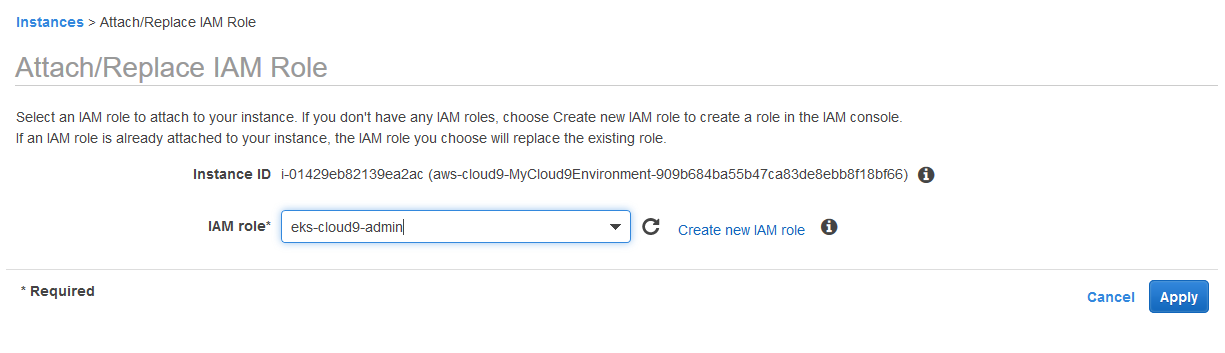
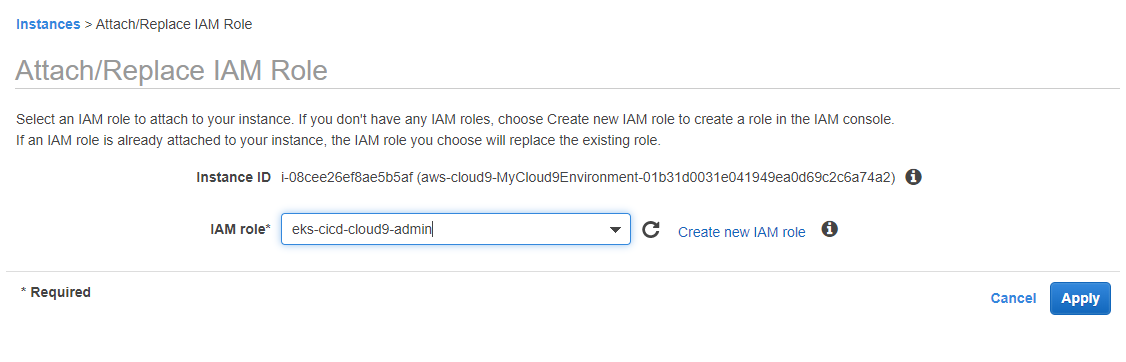
WIP: Instructions and app patches.

diff --git a/cicd-eks-fargate/README.md b/cicd-eks-fargate/README.md
@@ -4,37 +4,37 @@
 Click on the Services menu at the top left corner of the screen, and enter **Cloud9** into the search bar, then click on the *Cloud9* menu item.
 
 <p align="center">
-    <img alt="cloud9_1" src="https://github.com/aws-samples/virtual-immersion-week-labs/raw/master/cicd-eks-fargate/img/cloud9_1.png" width="25%">
+    <img alt="cloud9_1" src="https://github.com/aws-samples/virtual-immersion-week-labs/raw/feature/cicd-eks-fargate-lab/cicd-eks-fargate/img/cloud9_1.png" width="25%">
 </p>
 
 Click on the *Create environment* button to start creating a new environment.
 
 <p align="center">
-    <img alt="cloud9_2" src="https://github.com/aws-samples/virtual-immersion-week-labs/raw/master/cicd-eks-fargate/img/cloud9_2.png" width="55%">
+    <img alt="cloud9_2" src="https://github.com/aws-samples/virtual-immersion-week-labs/raw/masfeature/cicd-eks-fargate-labter/cicd-eks-fargate/img/cloud9_2.png" width="55%">
 </p>
 
 Enter **MyCloud9Environment** in the *Name* field, and click on the *Next step* button to continue.
 
 <p align="center">
-    <img alt="cloud9_3" src="https://github.com/aws-samples/virtual-immersion-week-labs/raw/master/cicd-eks-fargate/img/cloud9_3.png" width="85%">
+    <img alt="cloud9_3" src="https://github.com/aws-samples/virtual-immersion-week-labs/raw/feature/cicd-eks-fargate-lab/cicd-eks-fargate/img/cloud9_3.png" width="85%">
 </p>
 
 Leave the rest as it is, and click on the *Next step* button to continue.
 
 <p align="center">
-    <img alt="cloud9_4" src="https://github.com/aws-samples/virtual-immersion-week-labs/raw/master/cicd-eks-fargate/img/cloud9_4.png" width="85%">
+    <img alt="cloud9_4" src="https://github.com/aws-samples/virtual-immersion-week-labs/raw/feature/cicd-eks-fargate-lab/cicd-eks-fargate/img/cloud9_4.png" width="85%">
 </p>
 
 Review the parameters and click on the *Create environment* button.
 
 <p align="center">
-    <img alt="cloud9_5" src="https://github.com/aws-samples/virtual-immersion-week-labs/raw/master/cicd-eks-fargate/img/cloud9_5.png" width="85%">
+    <img alt="cloud9_5" src="https://github.com/aws-samples/virtual-immersion-week-labs/raw/feature/cicd-eks-fargate-lab/cicd-eks-fargate/img/cloud9_5.png" width="85%">
 </p>
 
 After a brief setup process, you will be taken to your newly created AWS Cloud9 environment. 
 
 <p align="center">
-    <img alt="cloud9_6" src="https://github.com/aws-samples/virtual-immersion-week-labs/raw/master/cicd-eks-fargate/img/cloud9_6.png" width="85%">
+    <img alt="cloud9_6" src="https://github.com/aws-samples/virtual-immersion-week-labs/raw/feature/cicd-eks-fargate-lab/cicd-eks-fargate/img/cloud9_6.png" width="85%">
 </p>
 
 ### Download and install dependencies
@@ -108,23 +108,25 @@ Click on the following [deep link](https://console.aws.amazon.com/iam/home#/role
 Make sure that the *AWS service* and *EC2* options are selected, then click *Next* to view permissions.
 
 <p align="center">
-    <img alt="iam_1" src="https://github.com/aws-samples/virtual-immersion-week-labs/raw/master/cicd-eks-fargate/img/iam_1.png" width="85%">
+    <img alt="iam_1" src="https://github.com/aws-samples/virtual-immersion-week-labs/raw/feature/cicd-eks-fargate-lab/cicd-eks-fargate/img/iam_1.png" width="85%">
 </p>
 
 Make sure that **AdministratorAccess** is checked, then click *Next* to review.
 
 <p align="center">
-    <img alt="iam_2" src="https://github.com/aws-samples/virtual-immersion-week-labs/raw/master/cicd-eks-fargate/img/iam_2.png" width="85%">
+    <img alt="iam_2" src="https://github.com/aws-samples/virtual-immersion-week-labs/raw/feature/cicd-eks-fargate-lab/cicd-eks-fargate/img/iam_2.png" width="85%">
 </p>
 
-Enter *eks-cloud9-admin* as the role name, and click *Create role*.
+Skip the tags by clicking on the *Next: Review* button.
 
 <p align="center">
-    <img alt="iam_3" src="https://github.com/aws-samples/virtual-immersion-week-labs/raw/master/cicd-eks-fargate/img/iam_3.png" width="85%">
+    <img alt="iam_3" src="https://github.com/aws-samples/virtual-immersion-week-labs/raw/feature/cicd-eks-fargate-lab/cicd-eks-fargate/img/iam_3.png" width="85%">
 </p>
 
+Enter *eks-cicd-cloud9-admin* as the role name, and click *Create role*.
+
 <p align="center">
-    <img alt="iam_4" src="https://github.com/aws-samples/virtual-immersion-week-labs/raw/master/cicd-eks-fargate/img/iam_4.png" width="85%">
+    <img alt="iam_4" src="https://github.com/aws-samples/virtual-immersion-week-labs/raw/feature/cicd-eks-fargate-lab/cicd-eks-fargate/img/iam_4.png" width="85%">
 </p>
 
 #### Assign the newly created IAM role to your Cloud9 instance.
@@ -133,11 +135,23 @@ Click on the following [deep link](https://console.aws.amazon.com/ec2/v2/home?#I
 
 Click on *Actions*, select *Instance Settings*, and click *Attach/Replace IAM Role*.
 
-From the *IAM role* dropdown, select the **eks-cloud9-admin** role, and click on *Apply*.
+<p align="center">
+    <img alt="ec2_role_1" src="https://github.com/aws-samples/virtual-immersion-week-labs/raw/feature/cicd-eks-fargate-lab/cicd-eks-fargate/img/ec2_role_1.png" width="85%">
+</p>
+
+From the *IAM role* dropdown, select the **eks-cicd-cloud9-admin** role, and click on *Apply*.
+
+<p align="center">
+    <img alt="ec2_role_2" src="https://github.com/aws-samples/virtual-immersion-week-labs/raw/feature/cicd-eks-fargate-lab/cicd-eks-fargate/img/ec2_role_2.png" width="85%">
+</p>
 
 #### Configure Cloud9 to use the newly assigned role.
 
 Click on the gear at the top right corner, then click on *AWS Settings*, and disable the *AWS managed temporary credentials* option.
+
+<p align="center">
+    <img alt="cloud9_credentials" src="https://github.com/aws-samples/virtual-immersion-week-labs/raw/feature/cicd-eks-fargate-lab/cicd-eks-fargate/img/cloud9_credentials.png" width="85%">
+</p>
 
 Erase the credentials that may be cached in the Cloud9 environment.
 
@@ -154,35 +168,55 @@ aws configure set default.region ${AWS_REGION}
 aws configure get default.region
 ```
 
-Make sure Cloud9 is using the **eks-cloud9-admin** role that we created.
+Make sure Cloud9 is using the **eks-cicd-cloud9-admin** role that we created.
 
 ```
 INSTANCE_PROFILE_NAME=`basename $(aws ec2 describe-instances --filters Name=tag:Name,Values=aws-cloud9-${C9_PROJECT}-${C9_PID} | jq -r '.Reservations[0].Instances[0].IamInstanceProfile.Arn' | awk -F "/" "{print $2}")`
 aws iam get-instance-profile --instance-profile-name $INSTANCE_PROFILE_NAME --query "InstanceProfile.Roles[0].RoleName" --output text
 ```
 
-The output should be the name of the role, **eks-cloud9-admin**.
+The output should be the name of the role, **eks-cicd-cloud9-admin**.
 
 
-### Create the EKS cluster
+### Start the EKS cluster provisioning.
 
-Generate an SSH key in Cloud9.
-
-```
-ssh-keygen
-```
-
-Upload the public key to your EC2 region.
-```
-aws ec2 import-key-pair --key-name "ekslab" --public-key-material file://~/.ssh/id_rsa.pub
-```
-
+The next step is to create the EKS cluster where we will be deploying our application. We will name the cluster **eks-cicd-lab-cluster**.
 
 ```
-eksctl create cluster --name ekslabcluster --version 1.16 --region eu-west-1 --full-ecr-access --fargate
+eksctl create cluster --name eks-cicd-lab-cluster --version 1.16 --region eu-west-1 --full-ecr-access --fargate --alb-ingress-access
 ```
 
-Cluster provisioning takes approximately between 10-15 minutes. When complete, test that your **kubectl** configuration is correct.
+Cluster provisioning takes approximately between 10-15 minutes.
+
+### Prepare your application for deployment.
+
+#### Create an Amazon ECR repository.
+
+First, create the Amazon ECR repository where we'll store our images. Take note of the repository URI, as you will need it later to configure the CI/CD pipeline.
+
+```
+aws ecr create-repository --repository-name=eks-cicd-lab-ecr-repo | jq -r .repository.repositoryUri
+```
+
+Then, create an AWS CodeCommit repository where we'll store the application code. Take note of the clone URL, as you will need it to push the patched application into your AWS CodeCommit repo.
+
+```
+aws codecommit create-repository --repository-name=eks-cicd-lab-git-repo | jq -r .repositoryMetadata.cloneUrlHttp
+```
+
+We'll use a stripped-down version of the 2048 game available on GitHub as our test application.
+
+```
+cd ~/environment && git clone --bare https://github.com/alexwhen/docker-2048.git
+```
+
+
+
+```
+cd docker-2048 && git push --mirror https://git-codecommit.eu-west-1.amazonaws.com/v1/repos/eks-cicd-lab-git-repo
+```
+
+When complete, test that your **kubectl** configuration is correct.
 
 ```
 kubectl get svc
@@ -208,26 +242,30 @@ fargate-ip-192-168-145-249.eu-west-1.compute.internal   Ready    <none>   9m6s  
 fargate-ip-192-168-159-100.eu-west-1.compute.internal   Ready    <none>   9m9s   v1.16.8-eks-e16311
 ```
 
-Now, attach the corresponding policy to the EKS node roles 
-
-### Initialize the CDK application
+Get the VPC ID of the newly created cluster. You will need this value to configure the ALB Ingress Controller.
 
 ```
-cd ~/environment && mkdir eks-cicd-cdk
+eksctl get cluster --region eu-west-1 --name eks-lab-cluster -o json | jq -r .[0].ResourcesVpcConfig.VpcId
 ```
 
+Now, create an IAM OIDC provider
+
 ```
-cdk init app --language=python
+eksctl utils associate-iam-oidc-provider --cluster=eks-lab-cluster --approve
 ```
 
+#### Configure the ALB Ingress Provider
 
+```
+kubectl apply -f https://raw.githubusercontent.com/kubernetes-sigs/aws-alb-ingress-controller/v1.1.4/docs/examples/rbac-role.yaml
+```
 
+wget https://raw.githubusercontent.com/kubernetes-sigs/aws-alb-ingress-controller/v1.1.4/docs/examples/alb-ingress-controller.yaml
 
+Open the **alb-ingress-controller.yaml** in a Cloud9 tab, and change uncomment the following lines:
 
-
-
-
-
+```
+```
 
 
 
@@ -291,7 +329,7 @@ kubectl logs -n kube-system $(kubectl get po -n kube-system | egrep -o alb-ingre
 
 ## Prepare the app
 
-aws ecr create-repository --repository-name=eks-lab-ecr-repo
+aws ecr create-repository --repository-name=eks-cicd-lab-ecr-repo
 
 ```
 {
